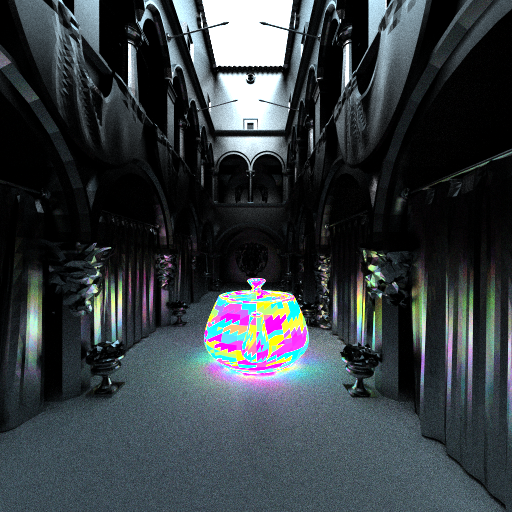
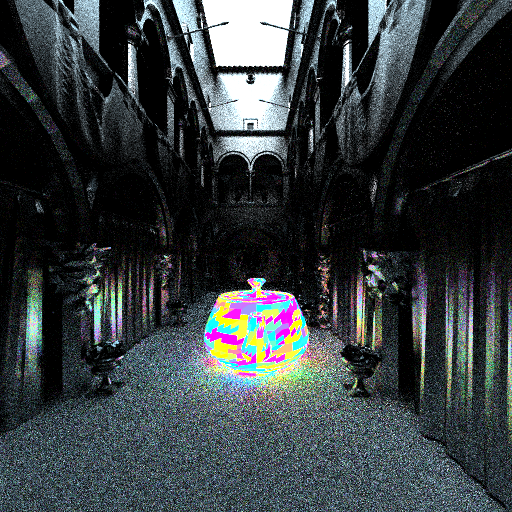
optimised bvh

diff --git a/src/main.rs b/src/main.rs
@@ -566,43 +566,48 @@ impl Hittable for RenderObjectBVH {
     fn ray_test(&self, ray: &Ray) -> Option<Hit> {
         let ray_c = RayInverse8::splat(ray);
 
-        let mut bvh_tests: Vec<usize> = vec![0];
-        let mut final_tests: Vec<usize> = vec![];
+        let mut hit: Option<Hit> = None;
+        let mut min_t = f32::INFINITY;
 
-        while let Some(test) = bvh_tests.pop() {
-            let node = &self.nodes[test];
-            let hit_data: [f32; 8] =
-                aabb_hit_8(&ray_c, node.subnode_bounds.0, node.subnode_bounds.1).into();
+        let mut bvh_tests: Vec<&BvhNode> = vec![self.nodes.first().unwrap()];
+        let mut final_tests: Vec<&dyn Hittable> = vec![];
 
-            for (i, subnode) in node.subnodes.as_ref().iter().enumerate() {
-                if hit_data[i].is_nan() {
+        while let Some(bvh_test_node) = bvh_tests.pop() {
+            let hit_data: [f32; 8] = aabb_hit_8(
+                &ray_c,
+                bvh_test_node.subnode_bounds.0,
+                bvh_test_node.subnode_bounds.1,
+            )
+            .into();
+
+            for (hit, subnode) in hit_data.into_iter().zip(bvh_test_node.subnodes) {
+                if !hit.is_nan() && min_t > hit {
                     match subnode {
                         BvhNodeIndex::Node(index) => {
-                            bvh_tests.push(*index);
+                            bvh_tests.push(&self.nodes[index]);
                         }
                         BvhNodeIndex::Leaf(index) => {
-                            final_tests.push(*index);
+                            final_tests.push(self.objects[index].as_ref());
                         }
                         BvhNodeIndex::None => {}
                     }
                 }
             }
-        }
-
-        let mut hit: Option<Hit> = None;
-        while final_tests.len() > 0 {
-            let n = final_tests.pop().unwrap();
-            let temp_hit = self.objects[n].as_ref().ray_test(ray);
-            if temp_hit.is_some() {
-                if hit.is_some() {
-                    if hit.as_ref().unwrap().t > temp_hit.as_ref().unwrap().t {
-                        hit = temp_hit;
+            while let Some(object) = final_tests.pop() {
+                if let Some(new_hit) = object.ray_test(ray) {
+                    if let Some(existing_hit) = hit.as_ref() {
+                        if existing_hit.t > new_hit.t {
+                            min_t = new_hit.t;
+                            hit = Some(new_hit);
+                        }
+                    } else {
+                        min_t = new_hit.t;
+                        hit = Some(new_hit);
                     }
-                } else {
-                    hit = temp_hit;
                 }
             }
         }
+
         hit
     }
 
@@ -707,7 +712,7 @@ fn aabb_hit_8(r: &RayInverse8, min: uv::Vec3x8, max: uv::Vec3x8) -> uv::f32x8 {
         uv::f32x8::max(t5, t6),
     );
 
-    tmax.cmp_ge(uv::f32x8::ZERO) & tmax.cmp_ge(tmin)
+    tmax.cmp_lt(uv::f32x8::ZERO) | tmax.cmp_lt(tmin) | tmin
 }
 
 fn sample_sky(ray: &Ray) -> uv::Vec3 {
